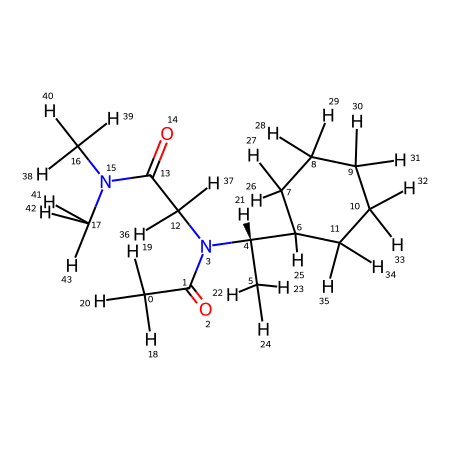
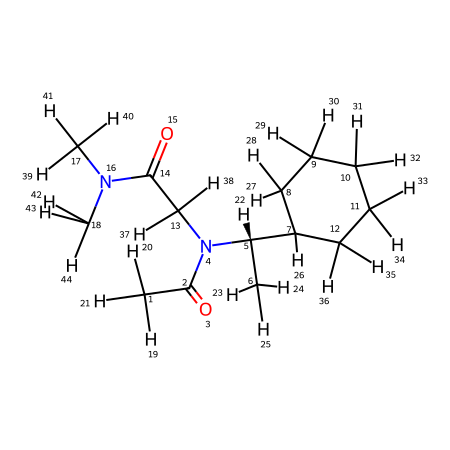
change png index

diff --git a/0_openBable_SMILES/sdf_only_make_2d.py b/0_openBable_SMILES/sdf_only_make_2d.py
@@ -1,0 +1,106 @@
+#!/usr/bin/env python3
+from __future__ import annotations
+
+import argparse
+import csv
+from pathlib import Path
+from typing import List
+
+from rdkit import Chem
+from rdkit.Chem import AllChem, Draw
+
+
+def draw_2d_with_indices_from_sdf(
+    in_sdf: Path,
+    out_png: Path,
+    size: int,
+    index_base: int,
+) -> None:
+    """SDF -> 2D PNG with atom indices (uses SDF atom order). Overwrites out_png."""
+    mol = Chem.SDMolSupplier(str(in_sdf), removeHs=False, sanitize=True)[0]
+    if mol is None:
+        raise ValueError(f"RDKit failed to read SDF: {in_sdf}")
+
+    # Compute 2D coordinates for drawing (does not change atom order)
+    AllChem.Compute2DCoords(mol)
+
+    # Annotate each atom with its index (0- or 1-based)
+    for atom in mol.GetAtoms():
+        atom.SetProp("atomNote", str(atom.GetIdx() + index_base))
+
+    out_png.parent.mkdir(parents=True, exist_ok=True)
+    img = Draw.MolToImage(mol, size=(size, size))
+    img.save(str(out_png))  # overwrite if exists
+
+
+def write_atommap_csv_from_sdf(
+    in_sdf: Path,
+    out_csv: Path,
+    index_base: int,
+) -> None:
+    """SDF -> atommap CSV. Overwrites out_csv."""
+    mol = Chem.SDMolSupplier(str(in_sdf), removeHs=False, sanitize=True)[0]
+    if mol is None:
+        raise ValueError(f"RDKit failed to read SDF: {in_sdf}")
+
+    out_csv.parent.mkdir(parents=True, exist_ok=True)
+    with out_csv.open("w", newline="", encoding="utf-8") as f:  # overwrite if exists
+        w = csv.writer(f)
+        w.writerow(["atom_index", "symbol", "atomic_num", "is_h"])
+        for atom in mol.GetAtoms():
+            idx = atom.GetIdx() + index_base
+            sym = atom.GetSymbol()
+            w.writerow([idx, sym, atom.GetAtomicNum(), 1 if sym == "H" else 0])
+
+
+def main() -> None:
+    ap = argparse.ArgumentParser(
+        description="Batch convert existing SDF files to 2D PNG (with atom indices) and atommap CSV. Overwrites outputs."
+    )
+    ap.add_argument("--sdfdir", required=True, help="Folder containing .sdf files (e.g., out/sdf)")
+    ap.add_argument(
+        "--outdir",
+        default="out",
+        help="Output root folder (should be the same as your pipeline out/ to overwrite png/atommap)",
+    )
+    ap.add_argument("--png-size", type=int, default=450, help="PNG image size (pixels)")
+    ap.add_argument("--index-base", type=int, choices=[0, 1], default=1, help="Atom index base (use 1 to start from 1)")
+    args = ap.parse_args()
+
+    sdfdir = Path(args.sdfdir)
+    outdir = Path(args.outdir)
+
+    if not sdfdir.exists():
+        raise SystemExit(f"[ERROR] sdfdir not found: {sdfdir}")
+
+    sdfs: List[Path] = sorted(sdfdir.glob("*.sdf"))
+    if not sdfs:
+        raise SystemExit(f"[ERROR] No .sdf files found in: {sdfdir}")
+
+    png_dir = outdir / "png"
+    map_dir = outdir / "atommap"
+    png_dir.mkdir(parents=True, exist_ok=True)
+    map_dir.mkdir(parents=True, exist_ok=True)
+
+    ok, fail = 0, 0
+    for sdf in sdfs:
+        stem = sdf.stem
+        out_png = png_dir / f"{stem}.png"
+        out_map = map_dir / f"{stem}_atommap.csv"
+
+        try:
+            draw_2d_with_indices_from_sdf(sdf, out_png, size=args.png_size, index_base=args.index_base)
+            write_atommap_csv_from_sdf(sdf, out_map, index_base=args.index_base)
+            ok += 1
+            print(f"[OK] {sdf.name} -> {out_png.name}, {out_map.name} (overwritten if existed)")
+        except Exception as e:
+            fail += 1
+            print(f"[FAIL] {sdf.name}: {e}")
+
+    print(f"[SUMMARY] OK: {ok}  FAIL: {fail}")
+    print(f"[OUT] PNG: {png_dir}")
+    print(f"[OUT] MAP: {map_dir}")
+
+
+if __name__ == "__main__":
+    main()
